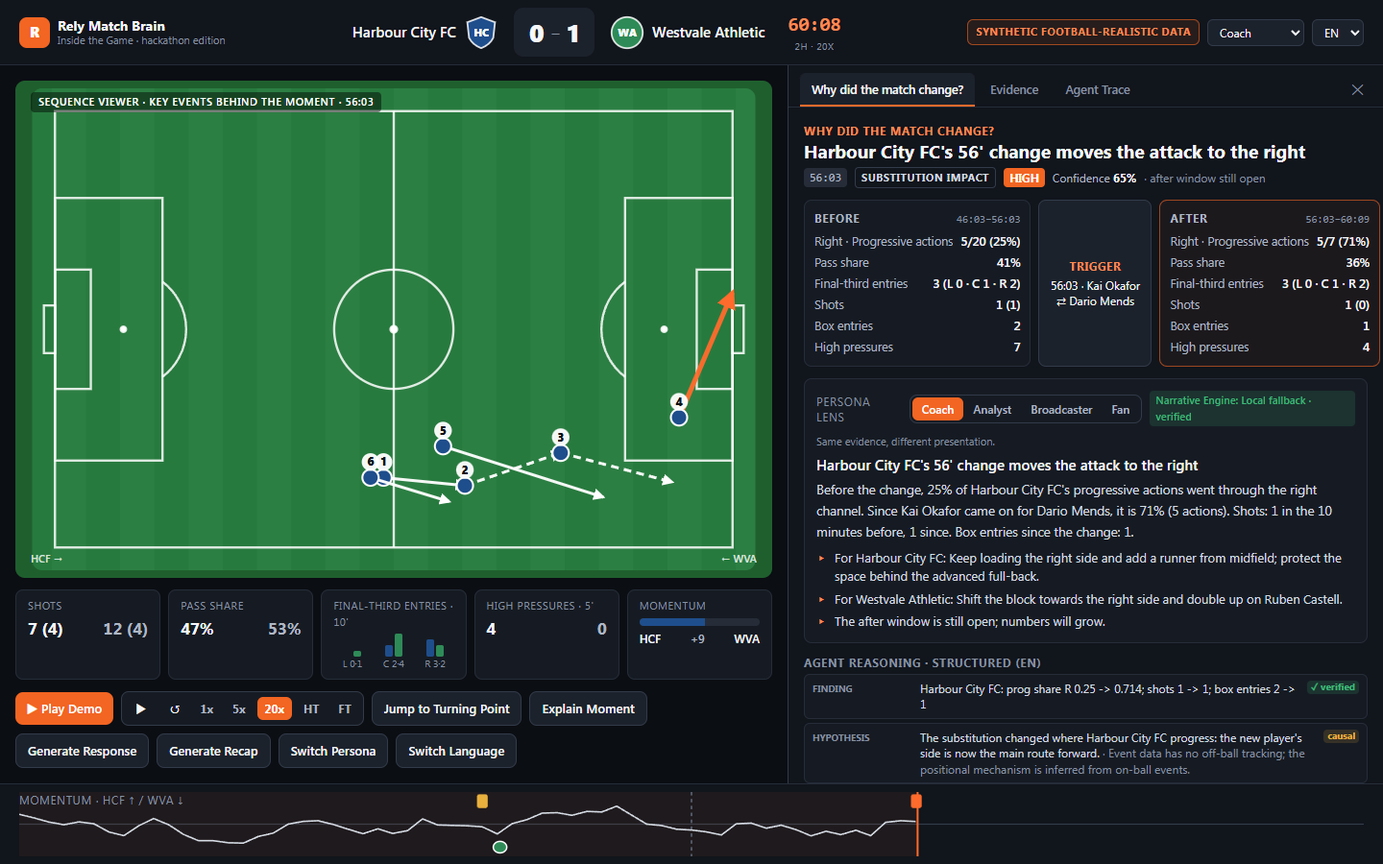
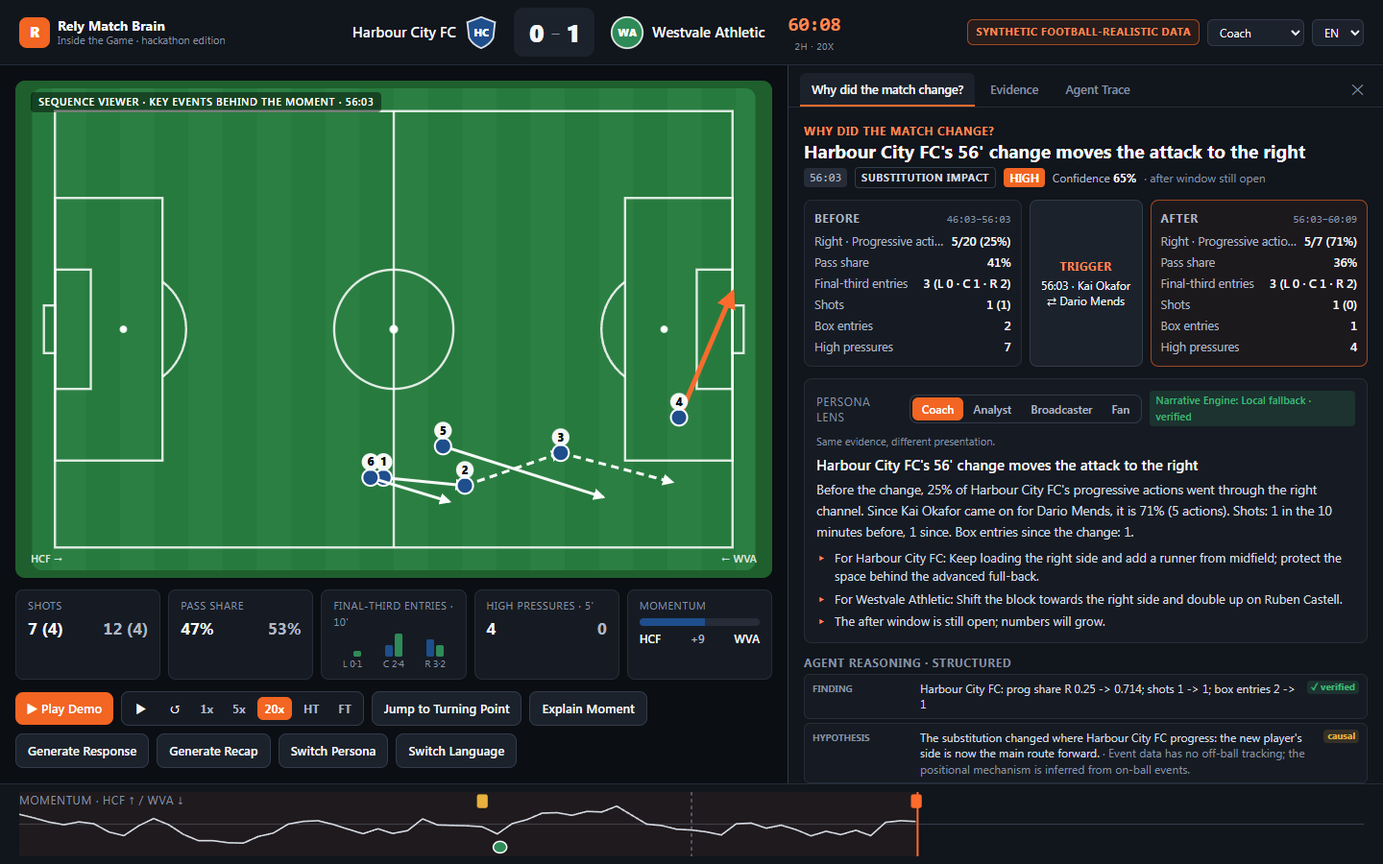
docs: finalize Rely Match Brain submission materials
- DEMO_SCRIPT and VIDEO_SHOT_LIST match shot for shot; timings come from a
  measured scripted run of the sequence (1:48, playback to banner 31.0 s)
- SUBMISSION: final elevator pitch (126 words), project description (349
  words), judging-criteria answers, multi-agent, enterprise and Foundry
  positioning, and what is still needed on the form
- README top section: what it is, why it matters, synthetic data, Microsoft
  status (Foundry not yet verified live; deployment-ready, not deployed), how to
  run the demo; hero image fixed
- HACKATHON_ALIGNMENT: judging and award tables with honest limits
- Closing card for the video and a social-preview image; screenshots refreshed

Changed region(s): [[0.6562, 0.2489, 1.0, 0.4044], [0.7188, 0.7467, 0.75, 0.7778]]

diff --git a/docs/SUBMISSION.md b/docs/SUBMISSION.md
@@ -1,74 +1,143 @@
 # Submission: Rely Match Brain
 
-**Project name:** Rely Match Brain
+| Field | Value |
+|---|---|
+| Project | **Rely Match Brain** |
+| Tagline | From football events to understanding. From understanding to decisions. |
+| GitHub | https://github.com/tolga-ileri/rely-inside-the-game |
+| Demo video | `PLACEHOLDER UNTIL THE VIDEO URL IS PROVIDED` |
+| Azure | Deployment-ready for Azure Container Apps, **not deployed** |
+| Microsoft Foundry | Provider implemented and tested with stand-ins; **no real Foundry call verified yet** |
+| Data | Synthetic, football-realistic, generated by a seeded simulator |
 
-**Tagline:** From football events to understanding. From understanding to decisions.
+## Elevator pitch
 
-**GitHub:** `<GITHUB_URL_PLACEHOLDER>`
-**Demo video:** `<VIDEO_URL_PLACEHOLDER>`
-**Live demo (if deployed):** `<DEMO_URL_PLACEHOLDER>`
+<!-- pitch:start -->
+Football changes before the scoreboard does. Rely Match Brain watches a stream of synthetic, football-realistic match
+events and keeps a real-time match state built only from what has happened so far. Deterministic rules detect turning
+points, such as a substitution that moves the attack to the right. Specialised agents then explain them: an Event
+Analyst, a Tactical Analyst, an Evidence Verifier that recomputes every number, and a Narrative agent. The same verified
+evidence becomes a decision for coaches, an analysis for analysts, a story for broadcasters and a plain explanation for
+fans, in English, Turkish or Spanish. Rely also proposes a tactical response and states its trade-off. The architecture
+is ready for Microsoft Foundry and Azure Container Apps; the submitted demo runs on its local fallback.
+<!-- pitch:end -->
 
-## Elevator pitch (about 130 words)
+## Project description
 
-Football produces thousands of events per match, but people want one answer: why did the match change? Rely Match Brain
-is an event-driven reasoning system that watches a live event stream and keeps an exact match state. Deterministic rules
-detect real turning points, such as a substitution that moves the attack to the right, a red card, or a late surge. A
-team of agents then explains them: an Event Analyst, a Tactical Analyst, an Evidence Verifier that re-checks every
-number, and a Narrative agent built on Azure AI Foundry. Coaches, analysts, broadcasters and fans each get their own
-view of the same evidence, in English, Turkish or Spanish. Every claim links to event ids and timestamps, and the system
-moves from insight to decision: it proposes a tactical response with an animated 4-3-3 → 3-2-5 preview. All data is
-synthetic.
+<!-- description:start -->
+**Problem.** A football match produces thousands of events, but coaches, analysts, broadcasters and fans want one
+answer: why did the match change? Generic AI summaries can invent numbers, players and causes, and once that happens
+nobody can trust them.
 
-## Description
+**Solution.** Rely Match Brain separates facts from language. Deterministic analytics decide what happened; agents
+explain it under strict grounding; every claim links back to events.
 
-Rely Match Brain replays a synthetic match event by event. The Match State engine recomputes score, possession,
-final-third entries by channel, pressures, recoveries and momentum from the events received so far, with rolling
-5- and 10-minute windows. Tests prove it never sees the future. A deterministic detector flags turning points with
-before and after windows, trigger events, evidence and confidence. Agents turn those facts into typed Observations,
-Patterns, Findings, Hypotheses, Recommendations and Risks. A verifier checks them, and the narrative is generated for
-each persona and language. The UI shows Before / Trigger / After, an evidence panel, a sequence viewer, an agent trace,
-recaps and a tactical response.
+**How it works.** A synthetic match is replayed event by event. The match state engine recomputes score, pass share,
+progressive actions by channel, final-third entries, pressures and momentum from the events received so far, with
+rolling windows; tests prove it never sees the future. A rule-based detector flags turning points with a trigger,
+before and after windows, evidence and confidence. In the demo, a 56th-minute substitution is detected at 60:03: the
+right channel's share of progressive actions rises from 25% to 71%.
 
-## Problem
+**Agent architecture.** An orchestrator passes one typed shared state through four specialised agents. The Event
+Analyst produces observations, the Tactical Analyst interprets them, the Evidence Verifier recomputes every metric and
+rejects unknown players, invented scores, future events and definitive causal claims, and the Narrative agent writes
+for the chosen persona and language. Each agent has its own failure boundary, and an Agent Trace shows status,
+latency and provider for every step.
 
-Match data is plentiful, but understanding is not. Analysts spend hours connecting events to causes. Generic AI summaries
-can invent numbers, players and causes, which ruins trust for coaches and broadcasters.
+**Explainability.** Before, Trigger and After are shown side by side with event ids and time windows. Evidence coverage
+is honest (20 supported, 2 unverifiable causal hypotheses, 0 rejected), and persona or language changes never alter a
+fact.
 
-## Solution
+**Microsoft stack.** A Microsoft Foundry provider for the Narrative agent, with structured output, streaming, caching
+and a grounded fallback; containers and a Bicep template for Azure Container Apps; GitHub Actions for tests, evals,
+Docker builds and secret scanning. No Foundry credentials were available during final validation, so the demo uses the
+local fallback, and nothing has been deployed to Azure.
 
-Separate facts from language. Rules and the state engine decide what happened; AI only explains it, under strict
-grounding. Facts are computed once and stay the same whatever the language or persona. If the AI fails or invents
-something, a grounded template takes over, so the system still explains the moment.
+**Impact.** The same engine serves a coach deciding a change, an analyst checking evidence, a broadcaster preparing a
+talking point and a fan following the game, with every claim traceable to the events behind it.
+<!-- description:end -->
 
-## Microsoft technology
+## Judging criteria
 
-- **Azure AI Foundry** model inference (`azure-ai-inference` SDK): Narrative agent with JSON outputs and streaming
-  support, behind a provider abstraction (`AI_PROVIDER=microsoft_foundry`). Responses are cached by state hash,
-  persona, locale and model.
-- **Azure Container Apps**, **Azure Container Registry**, **Log Analytics**: Bicep template and deploy script with
-  liveness, readiness and startup probes.
-- **GitHub Actions**: tests, lint, typecheck, build, AI eval smoke, Docker builds, gitleaks secret scan.
+**Technological Implementation.** A deterministic event engine with rolling windows and rule-based turning-point
+detection, typed schemas end to end, and an orchestrated agent pipeline. 94 backend tests, 11 frontend tests and a
+100-case offline AI evaluation; CI also runs lint, typecheck, build, Docker builds and a secret scan.
 
-Honesty note: Foundry integration is implemented and tested with fake clients. No live Foundry run or Azure deployment
-has happened at the time of writing. The demo runs on deterministic templates (`AI_PROVIDER=none`).
+**Agentic Design & Innovation.** Four agents with distinct jobs share one typed match state and hand off structured
+claims, not prose. The verifier can reject another agent's output, and each agent fails independently without taking
+the others down. The innovation is the order: facts first, verification second, language last.
 
-## Agentic design
+**Real-World Impact.** One verified finding becomes a decision for a coach, evidence for an analyst, a talking point
+for a broadcaster and a plain explanation for a fan. Tactical responses state their trade-off, so staff can judge them
+rather than follow them blindly.
 
-An orchestrator runs Match State → Turning-Point Detector → Event Analyst → Tactical Analyst → Evidence Verifier →
-Narrative over one explicit typed shared state. Each agent has a single role and its own failure boundary. If the
-Tactical agent fails, the Event output remains; if the Narrative agent fails, the structured intelligence remains and
-the UI says "AI explanation unavailable". The verifier enforces numeric grounding, entity validation and evidence
-coverage, and gives the Narrative agent one chance to regenerate before falling back. An Agent Trace shows per-agent
-latency, provider, model, fallback and coverage, without prompts or secrets.
+**UX & Presentation.** One screen: scoreboard, pitch with numbered sequences, a quiet intelligence feed and a momentum
+timeline. Why, Evidence, Agent Trace, Tactical Response and Recap open in a side drawer. Persona and language switch
+instantly without recomputing facts.
+
+**Challenge Adherence.** Built only on synthetic, football-realistic event data with fictional clubs, and labelled as
+such on every screen. It delivers the requested capabilities: explainable match intelligence, real-time narratives,
+automated recaps and personalised experiences.
+
+## Why this is more than match summarisation
+
+A summariser turns a finished match into text. Rely Match Brain reasons forward through a match as it happens:
+
+**events → deterministic intelligence → evidence verification → multi-agent reasoning → personalised narrative → tactical action**
+
+Facts are computed before any language model is involved, they are checked before anything is said about them, and
+the output ends in a decision with its trade-off, not a paragraph.
+
+## Multi-agent design
+
+| Agent | Input | Output | Handoff |
+|---|---|---|---|
+| Event Analyst | Match state, events up to now | Observations: metrics, sequences, anomalies | Tactical Analyst |
+| Tactical Analyst | Observations, turning points | Findings, hypotheses, recommendations, risks | Evidence Verifier |
+| Evidence Verifier | Every claim plus the shared state | Supported, unverifiable or rejected per claim; coverage | Narrative agent |
+| Narrative agent | Verified claims, persona, locale | Headline, explanation, bullets | UI |
+
+- **Shared match state:** one typed object every agent reads; nothing is passed as free text.
+- **Structured handoffs:** typed claims with event ids, metrics and windows.
+- **Failure recovery:** if the Tactical Analyst fails, Event Analyst output remains; if the Narrative agent fails, the
+  structured intelligence remains and the UI says the explanation is unavailable; a model timeout falls back to a
+  grounded template. All of this is covered by the evaluation suite.
+
+These are not sequential calls to one model. Three of the four agents are deterministic code, and the Verifier can
+overrule the others.
 
 ## Enterprise readiness
 
-Typed schemas (pydantic and TypeScript), structured JSON logs with latencies, `/health` and `/ready` endpoints,
-containerised services with health checks, infrastructure as code, a secret-free repository (`.env` ignored, gitleaks
-in CI), an offline eval suite (100/100, including adversarial cases), and deterministic, reproducible data.
+- Typed contracts (pydantic and TypeScript) for events, state, claims, moments and traces
+- Deterministic core: the same events always give the same facts
+- Evidence traceability: event ids, timestamps and windows behind every number
+- Fallback: grounded templates whenever AI is unavailable or ungrounded
+- Auditability: Agent Trace and structured JSON logs with per-stage latency
+- Containerised API and web app with `/health` and `/ready`
+- CI: tests, lint, typecheck, build, AI eval smoke, Docker builds and gitleaks
+
+Deployment-ready for Azure Container Apps; not deployed.
+
+## Microsoft Foundry
+
+Rely includes a Microsoft Foundry provider and setup path; the submitted demo uses its deterministic local fallback
+because no Foundry credentials were available during final validation.
+
+The provider uses the `azure-ai-inference` SDK with JSON output, streaming and a response cache, and every Foundry
+answer must pass the same grounding checks as any other text. Activation and verification steps:
+[FOUNDRY_SETUP.md](FOUNDRY_SETUP.md). Post-hackathon improvement: the provider currently exposes generic
+`complete_json` and `stream_text`; domain methods such as `generate_narrative` and `generate_recap` would make the
+contract clearer.
 
 ## Synthetic data compliance
 
 All clubs (Harbour City FC, Westvale Athletic, Kingsmere Rovers, Elmstead Town), players and events are fictional and
-generated by a seeded simulator. No real Premier League data, club logos or trademarks are used. The hackathon is
-referenced by name only. The UI permanently shows **SYNTHETIC FOOTBALL-REALISTIC DATA**.
+generated by a seeded simulator. No real Premier League data, club logos, broadcast footage or music is used. The
+hackathon is referenced by name only, and the UI permanently shows **SYNTHETIC FOOTBALL-REALISTIC DATA**.
+
+## Still to provide on the form
+
+1. Demo video URL (record with [DEMO_SCRIPT.md](DEMO_SCRIPT.md); measured run 1:48).
+2. Paste the elevator pitch and project description above.
+3. GitHub URL: https://github.com/tolga-ileri/rely-inside-the-game
+4. Leave any live-demo or Azure URL field empty: nothing is deployed.

diff --git a/docs/DEMO_SCRIPT.md b/docs/DEMO_SCRIPT.md
@@ -1,30 +1,43 @@
-# Demo script (target 1:45–1:55)
+# Demo script: Rely Match Brain (measured 1:48)
 
-Record at 1440×900 using `http://127.0.0.1:3100/?demo=1`. Recording mode is deterministic, shows no debug counters,
-and shortens internal ids. The API runs with `AI_PROVIDER=none` unless Foundry credentials are configured. If they are,
-say "Foundry" only when the Agent Trace shows `microsoft_foundry`.
+Final narration for the submission video. It matches [VIDEO_SHOT_LIST.md](VIDEO_SHOT_LIST.md) shot for shot.
 
-The turning-point banner appeared **31.2 s** after *Play Demo* in an earlier build-machine run (detected at match clock
-60:03; playback starts at 50:00 at 20x). That figure was not re-measured for this submission.
-The timings below are estimates from the script length, **not a stopwatch run**; re-time the recording before you submit.
+**How the 1:48 was measured.** A scripted browser run of exactly this sequence on the production build: it clicked the
+same controls, waited for the real playback to reach the turning point, and held every screen for as long as its
+narration takes to speak at about 150 words per minute, plus short pauses. Play Demo to the turning-point banner took
+**31.0 s** of real playback. A person reading at a different pace will land a few seconds either side; time your own
+take before submitting and stay under 1:55.
 
-| Time | Screen / action | Voice-over (suggested) |
+Recording: production build, `http://127.0.0.1:3100/?demo=1`, API with `AI_PROVIDER=none`. Voice only, no music.
+
+| Time | On screen | Say |
 |---|---|---|
-| 0:00–0:08 | App open on `/`: scoreboard, **SYNTHETIC FOOTBALL-REALISTIC DATA** label | "This is Rely Match Brain. It turns football events into understanding, and understanding into decisions. Everything here is synthetic data." |
-| 0:08–0:12 | Click **Play Demo** | "We replay a match at 20 times speed. The system only sees events up to the current second." |
-| 0:12–0:43 | Live playback: sequence viewer with numbered arrows, intelligence feed, channel bars, momentum timeline. At ~0:43 the **Turning point detected · 60:03** banner appears and playback pauses | "The match state updates with every event: possession, entries by channel, pressures, momentum. Rules, not AI, decide when the match has changed. Here: Harbour City's 56th-minute substitution moved their attack to the right." |
-| 0:43–1:03 | Click the banner (**Explain Moment**). Show **Before / Trigger / After**, then the **Evidence** tab | "Before the change, 25% of their progressive actions went down the right. At detection, 71% did. Across the full six minutes, 75%. Every number links to event ids, timestamps and windows, and the verifier re-checks every claim. Coverage is 91%, not a fake 100%, because causal hypotheses stay marked as unverifiable." |
-| 1:03–1:18 | Back to **Why**, persona lens: **Coach** → **Broadcaster** → **Fan**; then **Switch Language** (TR, ES) | "Same evidence, different presentation: instructions for the coach, a talking point for the broadcaster, plain words for the fan. Switching language changes the words only. The numbers stay the same." |
-| 1:18–1:35 | Back to EN. **Generate Response**: the Studio preview animates 4-3-3 → 3-2-5; click **counter 5 4 1** for what-if | "Rely turns understanding into a decision: amplify the shift with a 3-2-5. The right-back inverts, the left-back pushes high, a midfielder attacks the half-space, the winger holds the width. The risk is stated. What-if never predicts a score." |
-| 1:35–1:45 | **Agent Trace** tab | "Six stages with per-agent latency, provider and fallback status. If an agent fails, the others still deliver." |
-| 1:45–1:52 | **Generate Recap**: 30-second recap, switch to Turkish 2-minute analyst | "At full time, recaps for every audience and language, built only from evidence." |
-| 1:52–1:55 | Hold on the recap | "Rely Match Brain: from football events to understanding, from understanding to decisions." |
+| 0:00 | Opening screen: scoreboard, pitch, synthetic-data label | "Football changes before the scoreboard does. Rely Match Brain turns synthetic match events into explainable intelligence in real time." |
+| 0:08 | Click **Play Demo**. Events stream: clock, pitch arrows, intelligence feed | "The match is reconstructed only from events received so far. Nothing is precomputed from the final result." Then let the match play; no talking needed until the banner. |
+| 0:39 | **Turning point detected** banner, then the **SUBSTITUTION IMPACT** chip | "After this substitution, Rely detects a major change in how the team progresses down the right side." |
+| 0:46 | Click the banner. **Why did the match change?**: Before, Trigger, After | "Before the change, 25 percent of progressive actions came from the right channel. At detection, that rises to 71 percent." |
+| 0:56 | **Evidence** tab: 20 supported, 2 unverifiable, 0 rejected | "Every number is recomputed from the synthetic event stream. Rely separates verified evidence from causal hypotheses." |
+| 1:04 | Back to **Why**. Persona: **Coach**, then **Broadcaster** | "The same evidence becomes different intelligence depending on who is using it." |
+| 1:09 | **Generate Response**: 4-3-3 → 3-2-5 preview, movements, trade-off / risk | "Rely can turn the finding into a tactical response, while showing the trade-off instead of pretending there is one correct answer." |
+| 1:20 | **Agent Trace** tab | "Specialized agents analyse events, interpret tactics, verify evidence and create the narrative through structured handoffs. The architecture is ready for Microsoft Foundry, while this demo uses the local fallback." |
+| 1:33 | **Generate Recap**, then language **TR**, then **ES** | "The facts stay the same. Only the experience changes." |
+| 1:41 | Closing card ([video/closing-card.png](video/closing-card.png)) | "Rely Match Brain. From football events to understanding. From understanding to decisions." |
+| 1:48 | End | |
 
-Total: about **1:55**. To shorten to 1:45, skip the Fan persona and the Spanish recap.
+Two rules for the narration:
 
-## Rehearsal checklist
+- At 0:46 say **71 percent at detection**. The 75 percent figure is the complete six-minute window (9 of 12 actions),
+  which includes events after detection. Only mention it if you explain that difference.
+- Do not say the demo runs on Microsoft Foundry unless you have configured it and the Agent Trace shows
+  `microsoft_foundry` for the narrative agent. See [FOUNDRY_SETUP.md](FOUNDRY_SETUP.md).
 
-- `GET http://127.0.0.1:8100/ready` returns `ready: true`.
-- Open `/?demo=1` once before recording to warm up the API cache (first `/live` call is about 200 ms).
-- Do not seek on the timeline during the recording. *Jump to Turning Point* is the fallback if something goes wrong.
-- Optional recovery demo (not recorded): `/?fail=narrative` shows "AI explanation unavailable" with the structured intelligence still in place.
+## Recording checklist
+
+- Production build only (`pnpm build`, then `pnpm start -p 3100`). The dev server shows a Next.js badge.
+- Browser: no console, no bookmarks bar, no extensions toolbar; ideally a kiosk or app window without the address bar.
+- Record at 1920×1080 if your recorder supports it, otherwise 1440×900. Browser zoom 100%.
+- Open `/?demo=1` once before recording to warm the API; then reload so the take starts at kick-off.
+- Park the cursor off the controls between clicks so no tooltip opens.
+- Voice only. No music, broadcast footage or third-party logos.
+- If anything goes wrong mid-take, **Jump to Turning Point** recovers the flow.
+- Optional, not in the video: `/?fail=narrative` shows the structured intelligence with "AI explanation unavailable".

diff --git a/docs/VIDEO_SHOT_LIST.md b/docs/VIDEO_SHOT_LIST.md
@@ -1,30 +1,26 @@
-# Video shot list (1:55 planned)
+# Video shot list (measured 1:48)
 
-Record at 1440×900 from the production build: `http://127.0.0.1:3100/?demo=1`, with the API on `127.0.0.1:8100`
-and `AI_PROVIDER=none`. Before recording: move the mouse off the controls, close other tabs, and hide any browser
-toolbar that shows localhost URLs. Timings are planned durations. They are not a stopwatch run; re-time the
-recording before submitting. See [DEMO_SCRIPT.md](DEMO_SCRIPT.md) for the narration.
+Shot-by-shot companion to [DEMO_SCRIPT.md](DEMO_SCRIPT.md). Same times, same narration. Times come from a scripted
+run of this sequence on the production build, with real playback and narration-length holds; re-time your own take.
 
-| # | Time | Page / state | Mouse action | Narration (suggested) | Important visual |
+| # | Time | Page / state | Mouse action | Narration | Important visual |
 |---|---|---|---|---|---|
-| 1 | 0:00–0:08 | `/?demo=1`, kick-off | none, cursor parked off-screen | "This is Rely Match Brain. It turns football events into understanding, and understanding into decisions." | Scoreboard, **SYNTHETIC FOOTBALL-REALISTIC DATA** label, the explanatory line at the top of the feed |
-| 2 | 0:08–0:12 | Same | Click **Play Demo** | "We replay a match at twenty times speed. The system sees only events up to the current second." | Playback starts, clock moves |
-| 3 | 0:12–0:43 | Live playback | none (let it run) | "Rules decide when the match has changed. Not AI." | Sequence viewer arrows, intelligence feed filling, momentum timeline |
-| 4 | 0:43–0:50 | Turning-point banner at 60:03 | Click the banner or **Explain Moment** | "Here, Harbour City's 56th-minute substitution moves the attack to the right." | **SUBSTITUTION IMPACT** chip, the "HIGH" severity badge |
-| 5 | 0:50–1:03 | Why panel | Hover the **Evidence** tab, then click it | "Before the change, 25% of progressive actions went down the right. At detection, 71%. Every number links to events and windows." | Before / Trigger / After cards; Evidence tab with event ids and windows |
-| 6 | 1:03–1:10 | Evidence panel | none | "Coverage is 91%, not a fake 100%. The two unverifiable claims are causal hypotheses." | Coverage bar with its breakdown line |
-| 7 | 1:10–1:15 | Why panel → **Coach** | Click the **Why** tab, then choose **Coach** in the persona selector | "The coach gets a decision." | Coach bullets per team; same numbers |
-| 8 | 1:15–1:20 | **Broadcaster** | Choose **Broadcaster** | "The broadcaster gets a story. Same evidence." | Talking-point text |
-| 9 | 1:20–1:28 | Tactical response | Click **Generate Response** | "Amplify with a 3-2-5. The right-back inverts, the left-back pushes high, the winger holds the width. The trade-off is stated." | 4-3-3 → 3-2-5 preview with arrows; trade-off / risk box; suggested-response disclaimer |
-| 10 | 1:28–1:40 | Agent Trace tab | Click **Agent Trace** | "Each agent reports its status, latency and provider. If one fails, the others still deliver." | Table with per-agent ms, provider and fallback; narrative shown as local fallback |
-| 11 | 1:40–1:46 | Recap, English | Click **Generate Recap** | "At full time, recaps for each audience." | 30-second recap text |
-| 12 | 1:46–1:52 | Language switch to Turkish, then Spanish | Choose **TR**, then **ES** in the language selector | "The words change. The facts do not." | Turkish and Spanish recap text, same score and minutes |
-| 13 | 1:52–1:55 | Hold on the recap | none | "Rely Match Brain: from football events to understanding, from understanding to decisions." | Final frame: recap with the synthetic-data label visible |
+| 1 | 0:00–0:08 | `/?demo=1`, kick-off | None. Cursor parked off the controls | "Football changes before the scoreboard does. Rely Match Brain turns synthetic match events into explainable intelligence in real time." | Scoreboard, **SYNTHETIC FOOTBALL-REALISTIC DATA** label, explanatory line above the feed |
+| 2 | 0:08–0:39 | Playback at 20x from 50:00 | Click **Play Demo**, then hands off | "The match is reconstructed only from events received so far. Nothing is precomputed from the final result." | Clock running, numbered arrows on the pitch, feed filling, momentum line |
+| 3 | 0:39–0:46 | Banner **Turning point detected** (match clock 60:03) | None | "After this substitution, Rely detects a major change in how the team progresses down the right side." | Orange banner |
+| 4 | 0:46–0:56 | **Why did the match change?** | Click the banner | "Before the change, 25 percent of progressive actions came from the right channel. At detection, that rises to 71 percent." | **SUBSTITUTION IMPACT** chip, Before 5/20 (25%), Trigger 56:03, After 5/7 (71%) |
+| 5 | 0:56–1:04 | **Evidence** tab | Click **Evidence** | "Every number is recomputed from the synthetic event stream. Rely separates verified evidence from causal hypotheses." | Coverage bar: 20 supported · 2 unverifiable (causal) · 0 rejected; event id and windows |
+| 6 | 1:04–1:09 | Why tab, persona **Coach** → **Broadcaster** | Click **Why did the match change?**; choose **Coach**, then **Broadcaster** in the persona selector | "The same evidence becomes different intelligence depending on who is using it." | Coach: per-team decisions. Broadcaster: talking point. Same numbers |
+| 7 | 1:09–1:20 | Tactical response | Click **Generate Response** | "Rely can turn the finding into a tactical response, while showing the trade-off instead of pretending there is one correct answer." | 4-3-3 → 3-2-5 preview with arrows, player movements, trade-off / risk box, suggested-response line |
+| 8 | 1:20–1:33 | **Agent Trace** | Click **Agent Trace** | "Specialized agents analyse events, interpret tactics, verify evidence and create the narrative through structured handoffs. The architecture is ready for Microsoft Foundry, while this demo uses the local fallback." | Per-agent status and ms; narrative provider shown as none / template |
+| 9 | 1:33–1:41 | Recap, EN → TR → ES | Click **Generate Recap**; choose **TR**, wait about 3 s, choose **ES** | "The facts stay the same. Only the experience changes." | Same score and minutes in three languages |
+| 10 | 1:41–1:48 | Closing card | Cut to [video/closing-card.png](video/closing-card.png) in the editor | "Rely Match Brain. From football events to understanding. From understanding to decisions." | Title, tagline, pitch with the turning-point arrow |
 
-## Recording rules
+## Before you press record
 
-- No browser console, dev overlay or localhost-looking debug UI: use the production build (`pnpm build`, then
-  `pnpm start -p 3100`).
-- No visible internal ids beyond the shortened ones the recording mode shows.
-- No music, no broadcast footage, no third-party logos. The clubs are fictional and use Rely's own crest style.
-- Do not seek on the timeline during the take. **Jump to Turning Point** is the fallback.
+- Production build only; no Next.js dev badge.
+- No console, bookmarks bar or extension icons; hide the address bar if you can.
+- 1920×1080 preferred, 1440×900 acceptable; browser zoom 100% so text survives YouTube compression.
+- Reload `/?demo=1` so the take starts at kick-off, with the API already warm.
+- No visible internal ids beyond the short event ids recording mode shows.
+- Voice only. No music, broadcast footage or third-party logos. The clubs are fictional.

diff --git a/docs/HACKATHON_ALIGNMENT.md b/docs/HACKATHON_ALIGNMENT.md
@@ -1,20 +1,30 @@
 # Hackathon alignment: Inside the Game (Microsoft + Premier League)
 
-| Judging theme | How Rely Match Brain addresses it | Where |
+## Judging criteria
+
+| Judging category | Rely capability | Where |
 |---|---|---|
-| Deeper understanding of the game | Answers "Why did the match change?" while the match is live, with Before / Trigger / After windows built from events | `apps/api/rely_brain/turning_points.py`, Why panel |
-| Use of AI / agents | Event Analyst, Tactical Analyst, Evidence Verifier and Narrative agents with explicit shared state, an orchestrator and per-agent recovery | `apps/api/rely_brain/agents/`, `orchestrator.py` |
-| Microsoft technology | Azure AI Foundry provider (azure-ai-inference, JSON outputs, streaming), Azure Container Apps + ACR + Log Analytics templates, GitHub Actions | `rely_brain/llm.py`, `infra/azure/`, `.github/workflows/ci.yml` |
-| Responsible AI | Rules decide facts; AI only phrases them. Numeric grounding, entity validation, honest evidence coverage, template fallback, no prompts or secrets in the UI | `rely_brain/guard.py`, `agents/verifier.py`, evals |
-| Multiple audiences | Coach / Analyst / Broadcaster / Fan persona lens; EN / TR / ES; six recap formats; broadcast story cards and commentator prep | `narrative.py`, `i18n.py` |
-| Fan experience | Plain-language fan view, social recap, live intelligence feed without spam (clustered moments) | UI feed, recaps |
-| Decision support | Tactical Response with a Studio-style animated preview (4-3-3 → 3-2-5) and what-if (effect, advantage, risk, players, limitations; no score prediction) | `rely_brain/tactics.py`, Tactical panel |
-| Technical quality | 88 backend tests (including no-future-leak tests), 11 frontend tests, 85-case AI eval suite, typed schemas, CI with gitleaks | `apps/api/tests`, `apps/web/tests`, `apps/api/evals` |
-| Data compliance | 100% synthetic, seeded, reproducible data; fictional clubs; no real league data, logos or trademarks | `synthetic-data/` |
+| Technological Implementation | Deterministic event engine with rolling windows and no-future-leak tests; rule-based turning-point detector; typed schemas; 94 backend tests, 11 frontend tests, 100-case offline AI evaluation; CI with Docker builds and a secret scan | `apps/api/rely_brain/`, `apps/api/tests`, `apps/web/tests`, `apps/api/evals`, `.github/workflows/ci.yml` |
+| Agentic Design & Innovation | Event Analyst, Tactical Analyst, Evidence Verifier and Narrative agent over one typed shared state, with structured handoffs, a verifier that can reject other agents' claims, and per-agent failure recovery | `apps/api/rely_brain/agents/`, `orchestrator.py` |
+| Real-World Impact | One verified finding becomes a coach decision, analyst evidence, a broadcast talking point and a fan explanation; tactical responses state their trade-off | `narrative.py`, `tactics.py`, Why and Tactical panels |
+| UX & Presentation | One screen: scoreboard, numbered pitch sequences, quiet feed, momentum timeline; Why / Evidence / Agent Trace / Tactical Response / Recap in a drawer; persona and language switch without recomputing facts | `apps/web/src/components/` |
+| Challenge Adherence | Synthetic, football-realistic data only, labelled on every screen; explainable intelligence, real-time narratives, automated recaps, personalised experiences | `synthetic-data/`, UI label |
+
+## Awards
+
+| Award | Why Rely is relevant | Honest limit |
+|---|---|---|
+| Grand Prize | Not a summariser: events → deterministic intelligence → evidence verification → multi-agent reasoning → personalised narrative → tactical action | Demo data is synthetic by design |
+| Best Use of Microsoft Foundry | Foundry provider for the Narrative agent with structured output, streaming, caching and a grounded fallback; setup path in [FOUNDRY_SETUP.md](FOUNDRY_SETUP.md) | No real Foundry call has been verified; the demo runs on the local fallback |
+| Best Enterprise Solution | Typed contracts, deterministic core, evidence traceability, fallback, Agent Trace and structured logs, containers, CI | Not deployed |
+| Best Multi-Agent Orchestration | Four agents with distinct roles, shared typed state, verifier with veto, failure recovery covered by evals | Three agents are deterministic code; only the Narrative agent uses a language model |
+| Best Azure Cloud Native Integration | Dockerfiles, `/health` and `/ready`, Bicep template and deploy script for Azure Container Apps with probes and Log Analytics | Deployment-ready for Azure Container Apps; not deployed, and the Bicep template has not been compiled in CI |
+
+Eligibility for any award is decided by the challenge rules and judges; this table only maps capabilities.
 
 ## What is real vs. planned
 
 - **Real and tested:** synthetic data generator, match state, turning-point detector, agents, verifier, templates in three
-  languages, API, UI, Docker images (both built and smoke-tested locally), evals.
-- **Implemented, not yet exercised live:** Azure AI Foundry calls (no credentials on the build machine; covered by fake-client
-  tests) and Azure Container Apps deployment (template and script written; not deployed).
+  languages, API, UI, Docker images, evals.
+- **Implemented, not exercised live:** Microsoft Foundry calls (no credentials; covered by stand-in tests) and the Azure
+  Container Apps deployment (template and script written; deployment-ready, not deployed).

diff --git a/README.md b/README.md
@@ -2,16 +2,19 @@
 
 **From football events to understanding. From understanding to decisions.**
 
-Rely Match Brain is an event-driven football reasoning system. It watches a live stream of match events, keeps a
-precise match state, detects the moments where a match actually changes with deterministic rules, and then lets a
-small team of AI agents explain those moments for a coach, an analyst, a broadcaster or a fan. It works in English,
-Turkish and Spanish, and every number it shows can be traced back to the events it came from.
+Rely Match Brain watches a stream of football match events, detects the moment a match changes, and explains why, with
+every number traced back to the events behind it. A coach gets a decision, an analyst gets evidence, a broadcaster gets
+a story and a fan gets a plain explanation, in English, Turkish or Spanish.
 
-> **Synthetic data only.** Every club, player and event in this repository is fictional and generated by a seeded
-> simulator (`synthetic-data/`). The repository contains no real match data, real player data or club marks.
-> The UI labels all data as **SYNTHETIC FOOTBALL-REALISTIC DATA**.
+| | |
+|---|---|
+| **Why it matters** | Generic AI summaries invent numbers and causes. Here, deterministic analytics decide the facts, a verifier checks every claim, and language comes last. |
+| **Data** | **Synthetic only.** Fictional clubs and players from a seeded simulator ([`synthetic-data/`](synthetic-data/)); labelled on every screen. |
+| **Microsoft** | Microsoft Foundry provider for the Narrative agent (implemented and tested with stand-ins; the demo runs on the local fallback, see [FOUNDRY_SETUP](docs/FOUNDRY_SETUP.md)). Deployment-ready for Azure Container Apps (not deployed). GitHub Actions CI. |
+| **Run the demo** | Start the API and web app as in [Run locally](#run-locally), open `http://127.0.0.1:3100/?demo=1` and press **Play Demo**. A `docker compose` file is included; CI builds both images, but `docker compose up` has not been run end to end. |
+| **Watch** | Demo video: link to be added. Script: [docs/DEMO_SCRIPT.md](docs/DEMO_SCRIPT.md) (measured 1:48). |
 
-![Live demo](docs/screenshots/01-hero-live.png)
+![Rely Match Brain: why did the match change?](docs/screenshots/02-turning-point.png)
 
 ---
 
